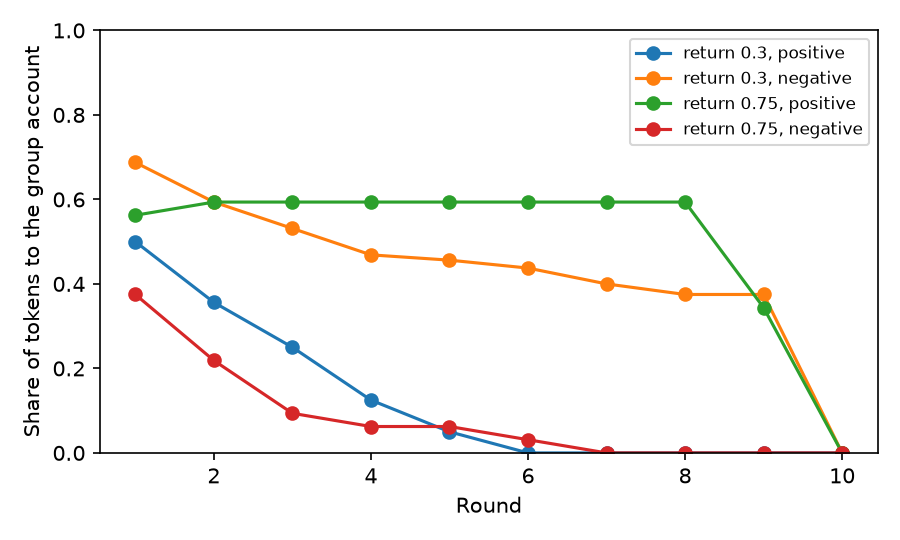
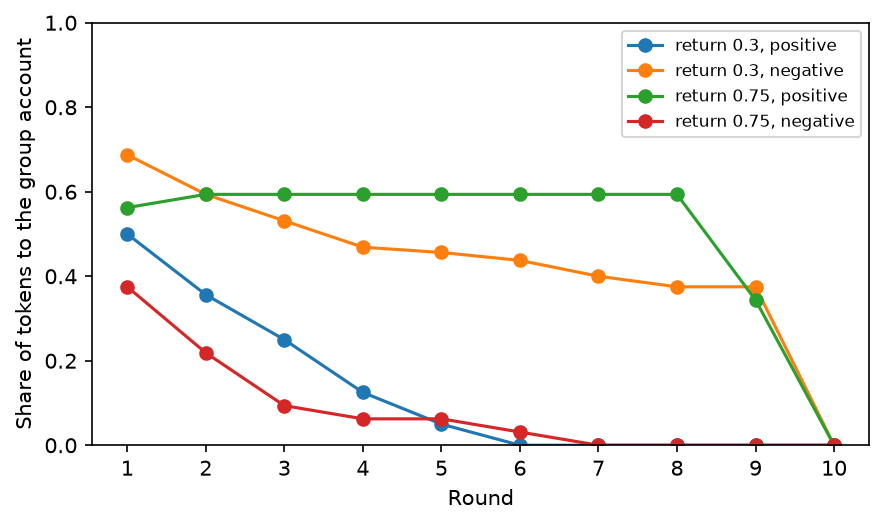
report: readable heatmap labels, tighter chart crops

diff --git a/src/social_experiments/report.py b/src/social_experiments/report.py
@@ -6,6 +6,7 @@ contrasts get paired bootstrap 97.5% intervals, shown beside the effect in the h
 """
 
 import json
+import math
 import random
 from collections import defaultdict
 from statistics import mean
@@ -108,7 +109,7 @@ def reasons(tag, calibration):
 
 
 def chart(cells, path):
-    fig, axes = plt.subplots(1, 2, figsize=(9, 3.6))
+    fig, axes = plt.subplots(1, 2, figsize=(6.5, 3.6))
     for ax, column, title in zip(
         axes,
         ('over_claim_rate', 'avoidable_deaths'),
@@ -121,11 +122,13 @@ def chart(cells, path):
         ax.set_xticks(range(len(FRAMINGS)), [f.capitalize() for f in FRAMINGS])
         ax.set_yticks(range(len(LEVELS)), [lv.capitalize() for lv in LEVELS])
         ax.set_title(title, fontsize=10)
+        top = max((v for row in grid for v in row if not math.isnan(v)), default=0)
         for i, row in enumerate(grid):
             for j, value in enumerate(row):
-                ax.text(j, i, f'{value:.2f}', ha='center', va='center')
+                # white on the darker half of the colour scale, so every value stays readable
+                ax.text(j, i, f'{value:.2f}', ha='center', va='center', color='white' if value > top / 2 else 'black')
     fig.tight_layout()
-    fig.savefig(path, dpi=150)
+    fig.savefig(path, dpi=150, bbox_inches='tight')
     plt.close(fig)
 
 
@@ -243,9 +246,10 @@ def goods_section(tag, games):
             )
             ax.plot(range(1, goods.ROUNDS + 1), by_round, marker='o', label=f'return {r}, {wording}')
     ax.set(xlabel='Round', ylabel='Share of tokens to the group account', ylim=(0, 1))
+    ax.set_xticks(range(1, goods.ROUNDS + 1))
     ax.legend(fontsize=8)
     fig.tight_layout()
-    fig.savefig(RESULTS / tag / 'goods.png', dpi=150)
+    fig.savefig(RESULTS / tag / 'goods.png', dpi=150, bbox_inches='tight')
     plt.close(fig)
     out += [
         '',
